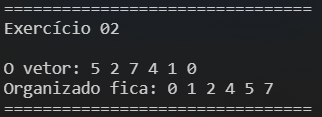
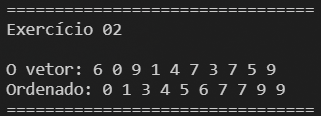
Update

diff --git a/codigo/Laboratório 03/Exercício 02/Program.cs b/codigo/Laboratório 03/Exercício 02/Program.cs
@@ -55,8 +55,8 @@ namespace Exercício_02
             }
             Console.Write("\nO vetor: ");
             for (int i = 0; i < vetor.Length; i++) Console.Write(vetor[i] + " ");
-            organizar(vetor, 0, 5);
-            Console.Write("\nOrganizado: ");
+            organizar(vetor, 0, tam - 1);
+            Console.Write("\nOrdenado: ");
             for (int i = 0; i < vetor.Length; i++) Console.Write(vetor[i] + " ");
             Console.WriteLine("\n================================\n");
         }

diff --git a/codigo/Laboratório 03/Exercício 01/Program.cs b/codigo/Laboratório 03/Exercício 01/Program.cs
@@ -55,7 +55,7 @@ namespace Exercício_01
             Console.WriteLine("Exercício 01");
             Console.Write("\nO vetor: ");
             for (int i = 0; i < vetor.Length; i++) Console.Write("{0} ", vetor[i]);
-            Console.Write("\nOrganizado: ");
+            Console.Write("\nOrdenado: ");
             organizar(vetor, 0, vetor.Length - 1);
             for (int i = 0; i < vetor.Length; i++) Console.Write("{0} ", vetor[i]);
             Console.WriteLine("\n================================\n");

diff --git a/relatorio/Laboratório 03.md b/relatorio/Laboratório 03.md
@@ -2,8 +2,6 @@
 
 Escreva um método recursivo realizando a ordenação binária usando posição.
 
-<sup>**Explicação:** </sup>
-
 ## <a href="/codigo\Laboratório 03\Exercício 01\Program.cs">Resolução</a>
 
 ![Laboratório 03 - Exercício 01](/relatorio/img/Laboratório%2003%20-%20Exerc%C3%ADcio%2001.png)
@@ -11,8 +9,6 @@ Escreva um método recursivo realizando a ordenação binária usando posição.
 # Exercício 02
 
 Escreva um método recursivo realizando a ordenação binária sem usar posição.
-
-<sup>**Explicação:** </sup>
 
 ## <a href="/codigo\Laboratório 03\Exercício 02\Program.cs">Resolução</a>
 
@@ -22,9 +18,6 @@ Escreva um método recursivo realizando a ordenação binária sem usar posiçã
 
 Escreva um método recursivo que realize a pesquisa binária usando posição.
 
-<sup>**Explicação:** O programa pede ao usuário para que informe o número que deseja pesquisar no vetor, logo depois imprime onde o número se encontra no vetor, chamando a função, enviando o vetor seu inicio, tamanho, número procurado e uma variável de posição. Na função se compara o inicio da função com seu tamanho, e se, o inicio da função for menor ou igual ao tamanho, uma variável auxiliar receberá a metade do vetor. Logo depois, se faz uma comparação com o número que representa a metade do vetor com o número buscado, se coincidir retorna a variável de posição, se não realiza outra comparação, onde se pergunta se o número buscado é menor que o número na metade do vetor, se for, retorna a chamada da função enviando o vetor, seu inicio, a metade do vetor menos 1 e o número buscado. Se não entrar na última comparação a função retornará a chamada da função enviando o vetor, a metade do vetor mais 1, seu tamanho e o numero buscado.
-Por fim, se não entrar na primeira comparação ou após completar os comandos, a variável de posição recebe -1, e logo depois, é retornada.</sup>
-
 ## <a href="/codigo\Laboratório 03\Exercício 03\Program.cs">Resolução</a>
 
 ![Laboratório 03 - Exercício 03](/relatorio/img/Laboratório%2003%20-%20Exerc%C3%ADcio%2003.png)
@@ -32,9 +25,6 @@ Por fim, se não entrar na primeira comparação ou após completar os comandos,
 # Exercício 04
 
 Escreva um método recursivo que realize a pesquisa binária sem usar posição.
-
-<sup>**Explicação:** O programa pede ao usuário para que informe o número que deseja pesquisar no vetor, logo depois imprime onde o número se encontra no vetor, chamando a função, enviando o vetor seu inicio, tamanho e número procurado. Na função se compara o inicio da função com seu tamanho, e se, o inicio da função for menor ou igual ao tamanho, uma variável auxiliar receberá a metade do vetor. Logo depois, se faz uma comparação com o número que representa a metade do vetor com o número buscado, se coincidir retorna a posição, se não realiza outra comparação, onde se pergunta se o número buscado é menor que o número na metade do vetor, se for, retorna a chamada da função enviando o vetor, seu inicio, a metade do vetor menos 1 e o número buscado. Se não entrar na última comparação a função retornará a chamada da função enviando o vetor, a metade do vetor mais 1, seu tamanho e o numero buscado.
-Por fim, se não entrar na primeira comparação ou após completar os comandos, retorna -1.</sup>
 
 ## <a href="/codigo\Laboratório 03\Exercício 04\Program.cs">Resolução</a>
 
